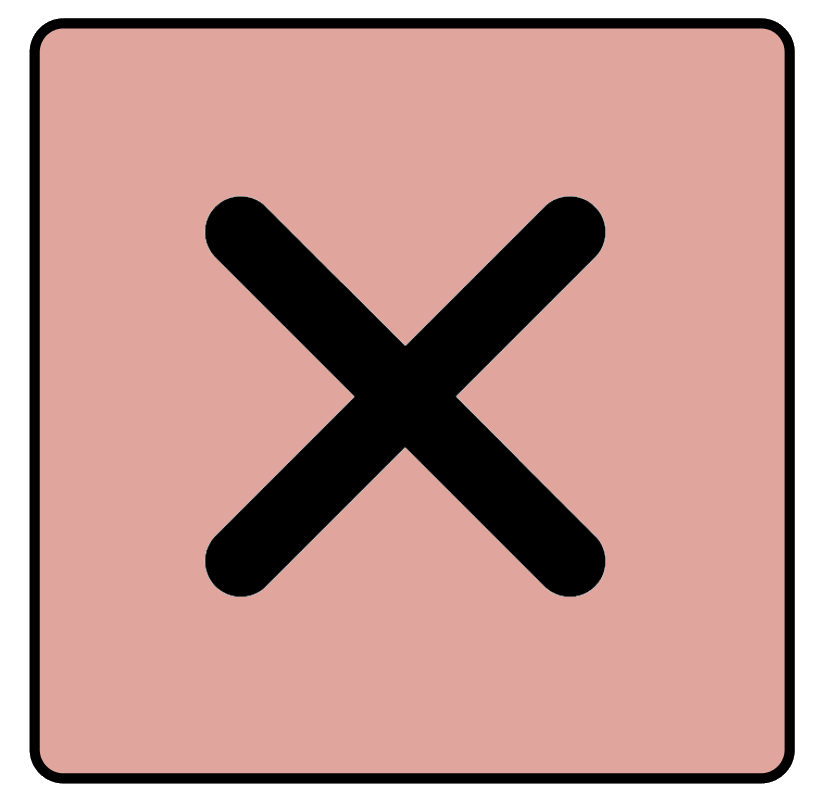
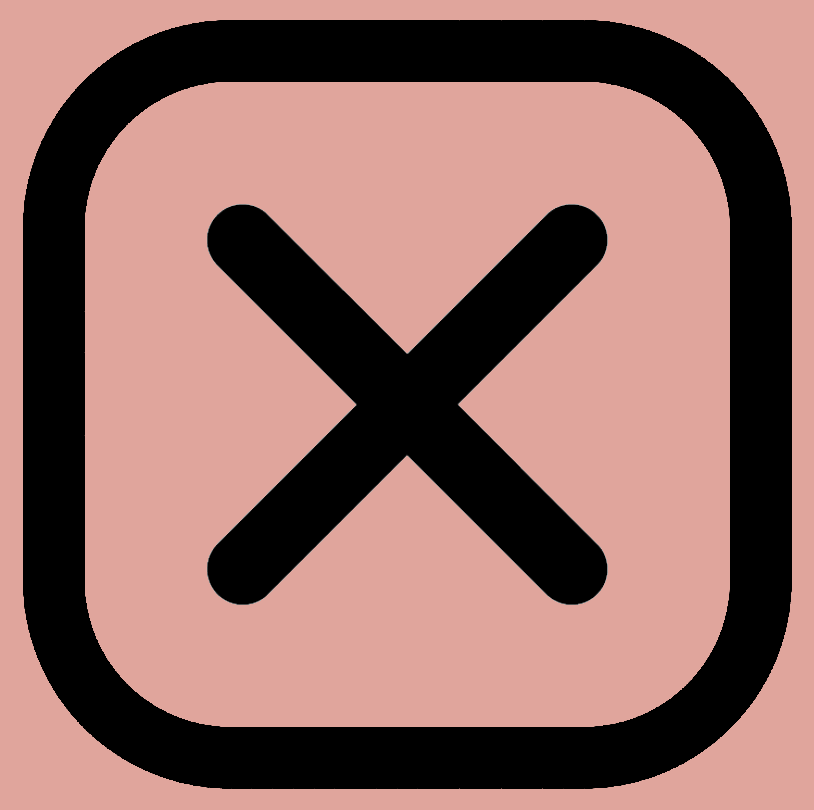
Changed back-button, fixed a few bugs

diff --git a/src/components/DrawingBoard.jsx b/src/components/DrawingBoard.jsx
@@ -265,8 +265,8 @@ function DrawingBoard() {
         ctx.clearRect(0, 0, myCanvas.width, myCanvas.height);
         lineHistory.current = []; // Empty the undo history
         setCanvasEmpty(true); // Set canvas as empty
-        console.log(data);
-        setArtworkId(data.insertedId);
+        // console.log(data);
+        // setArtworkId(data.insertedId);
         navigate('/souvenir'); 
       } else {
         throw new Error('Failed to send the drawing'); // ..

diff --git a/src/components/Home.tsx b/src/components/Home.tsx
@@ -59,9 +59,9 @@ const Home = () => {
                     </button>
                 </div>
             
-                <button className='footer-btn' id='start-btn'>
-                    <Link to="/draw"> Start</Link>
-                </button>
+                <Link to="/draw">
+                    <button className='footer-btn' id='start-btn'>Start</button>
+                </Link>
             </footer>
         
         </div>
